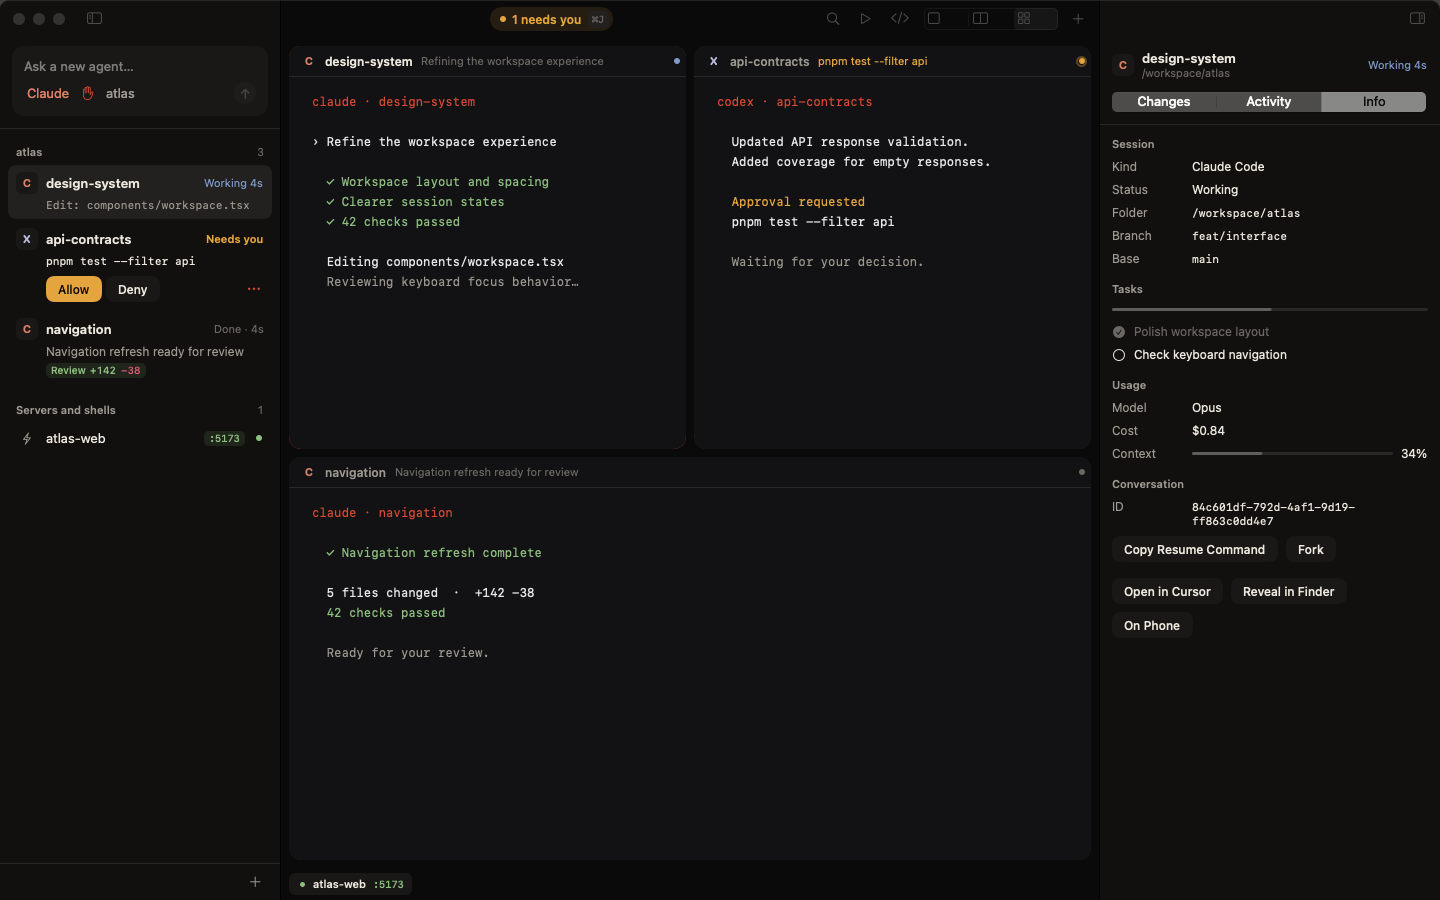
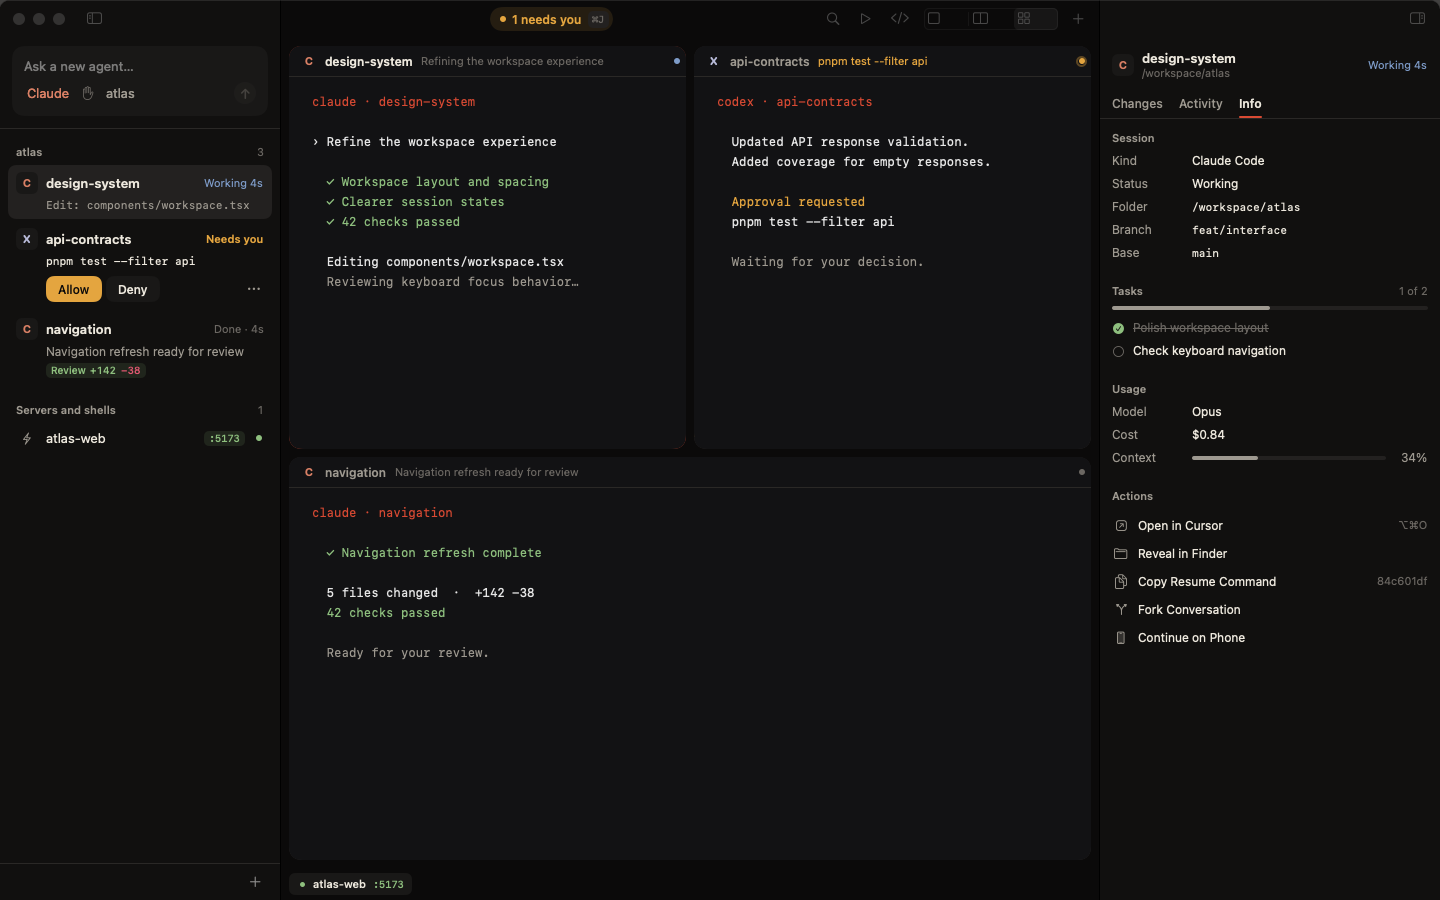
style: ink tabs, a cleaner inspector, and quieter sidebar controls
AppKit's gray segmented control is gone: SegmentedTabs draws tabs in the app's own ink, with
a vermilion underline for the inspector and a pill track for Settings and Quick Ask. The
inspector's Info tab gets thin meters, task progress ("1 of 2"), usage for Codex too, and
one action list in place of five wrapping buttons. Sidebar menus no longer inherit the
accent, so the permission icon and row menu stop looking like errors.

diff --git a/Sources/Hyperterm/UI/InspectorView.swift b/Sources/Hyperterm/UI/InspectorView.swift
@@ -44,13 +44,13 @@ private struct InspectorContent: View {
         VStack(spacing: 0) {
             header
             if tabs.count > 1 {
-                Picker("Inspector", selection: Binding(get: { tab }, set: { store.inspectorTab = $0 })) {
-                    ForEach(tabs) { Text($0.rawValue).tag($0) }
+                HStack {
+                    SegmentedTabs(options: tabs.map { ($0, $0.rawValue) },
+                                  selection: Binding(get: { tab }, set: { store.inspectorTab = $0 }),
+                                  style: .underline)
+                    Spacer(minLength: 0)
                 }
-                .pickerStyle(.segmented)
-                .labelsHidden()
                 .padding(.horizontal, Space.m)
-                .padding(.bottom, Space.m)
             }
             Hairline()
             switch tab {
@@ -79,7 +79,7 @@ private struct InspectorContent: View {
         }
         .padding(.horizontal, Space.m)
         .padding(.top, Space.m)
-        .padding(.bottom, Space.m)
+        .padding(.bottom, Space.s)
     }
 }
 
@@ -967,7 +967,7 @@ private struct InfoView: View {
 
     var body: some View {
         ScrollView {
-            VStack(alignment: .leading, spacing: Space.l) {
+            VStack(alignment: .leading, spacing: Space.xl) {
                 section(session.kind == .browser ? "Browser" : "Session") {
                     row("Kind", session.kind.displayName)
                     row("Status", session.statusWord + (session.state.detail.map { " · " + $0 } ?? ""))
@@ -988,65 +988,72 @@ private struct InfoView: View {
                 }
                 let tasks = session.tasks
                 if tasks.total > 0 {
-                    section("Tasks") {
-                        ProgressView(value: Double(tasks.done), total: Double(tasks.total)).controlSize(.small)
+                    section("Tasks", trailing: "\(tasks.done) of \(tasks.total)") {
+                        Meter(fraction: Double(tasks.done) / Double(tasks.total))
+                            .padding(.bottom, Space.xxs)
                         ForEach(tasks.order, id: \.self) { id in
-                            Label(tasks.subjects[id] ?? "Task", systemImage: tasks.completed.contains(id) ? "checkmark.circle.fill" : "circle")
-                                .font(Typeface.callout)
-                                .foregroundStyle(tasks.completed.contains(id) ? Tone.faint : Tone.text)
+                            let done = tasks.completed.contains(id)
+                            HStack(alignment: .firstTextBaseline, spacing: Space.s) {
+                                Image(systemName: done ? "checkmark.circle.fill" : "circle")
+                                    .font(Typeface.caption)
+                                    .foregroundStyle(done ? Palette.running : Tone.faint)
+                                Text(tasks.subjects[id] ?? "Task")
+                                    .foregroundStyle(done ? Tone.faint : Tone.text)
+                                    .strikethrough(done, color: Tone.faint)
+                            }
                         }
                     }
                 }
-                if session.kind == .claude {
+                if session.kind.isAgent {
                     section("Usage") {
-                        row("Model", session.usage.model ?? "—")
-                        row("Cost", session.usage.costUSD.map { String(format: "$%.2f", $0) } ?? "—")
+                        if let model = session.usage.model { row("Model", model) }
+                        if let cost = session.usage.costUSD { row("Cost", String(format: "$%.2f", cost)) }
                         if let context = session.usage.contextPercent {
                             HStack(spacing: Space.s) {
                                 Text("Context").foregroundStyle(Tone.muted).frame(width: 72, alignment: .leading)
-                                ProgressView(value: min(max(context, 0), 100), total: 100)
-                                    .controlSize(.small)
-                                    .tint(context >= 90 ? Palette.attention : Palette.accent)
+                                Meter(fraction: context / 100, warning: 0.9)
                                 Text("\(Int(context))%").monospacedDigit()
-                                    .foregroundStyle(context >= 90 ? Palette.attention : Tone.text)
+                                    .foregroundStyle(context >= 90 ? Palette.attention : Tone.muted)
+                                    .frame(width: 34, alignment: .trailing)
                             }
                         }
-                        if let evidence = session.testEvidence {
-                            row("Tests", evidence.summary)
+                        if let limits = session.usage.limits { row("Limits", limitsText(limits)) }
+                        if let evidence = session.testEvidence { row("Tests", evidence.summary) }
+                        if session.usage == UsageSnapshot(), session.testEvidence == nil {
+                            Text("Shows after the first turn.").foregroundStyle(Tone.faint)
                         }
                     }
                 }
-                if let id = session.spec.agentSessionId {
-                    section("Conversation") {
-                        row("ID", id, mono: true)
-                        FlowLayout(spacing: Space.s) {
-                            Button(copiedResume ? "Copied" : "Copy Resume Command") {
+                section("Actions") {
+                    VStack(spacing: 0) {
+                        if session.kind != .browser {
+                            ActionRow(symbol: "arrow.up.forward.app", title: "Open in \(Editors.preferred?.name ?? "Editor")", detail: "⌥⌘O") {
+                                Editors.open(session.spec.workPath)
+                            }
+                        }
+                        ActionRow(symbol: "folder", title: "Reveal in Finder") {
+                            NSWorkspace.shared.activateFileViewerSelecting([URL(fileURLWithPath: session.spec.workPath)])
+                        }
+                        if let id = session.spec.agentSessionId {
+                            ActionRow(symbol: copiedResume ? "checkmark" : "doc.on.doc",
+                                      title: copiedResume ? "Copied" : "Copy Resume Command",
+                                      detail: String(id.prefix(8))) {
                                 let command = session.kind == .claude ? "claude --resume \(id)" : "codex resume \(id)"
                                 NSPasteboard.general.clearContents()
                                 NSPasteboard.general.setString(command, forType: .string)
                                 copiedResume = true
                             }
+                            .help(id)
                             if session.kind == .claude {
-                                Button("Fork") { _ = store.fork(session) }
+                                ActionRow(symbol: "arrow.triangle.branch", title: "Fork Conversation") { _ = store.fork(session) }
                                     .help("Start a new agent from this point in the conversation")
+                                ActionRow(symbol: "iphone", title: "Continue on Phone") { session.openRemoteControl() }
+                                    .help("Continue with Claude Remote Control")
                             }
                         }
-                        .buttonStyle(PanelButtonStyle())
                     }
+                    .padding(.horizontal, -Space.s)
                 }
-                FlowLayout(spacing: Space.s) {
-                    if session.kind != .browser {
-                        Button("Open in \(Editors.preferred?.name ?? "Editor")") { Editors.open(session.spec.workPath) }
-                    }
-                    Button("Reveal in Finder") {
-                        NSWorkspace.shared.activateFileViewerSelecting([URL(fileURLWithPath: session.spec.workPath)])
-                    }
-                    if session.kind == .claude {
-                        Button("On Phone") { session.openRemoteControl() }
-                            .help("Continue with Claude Remote Control")
-                    }
-                }
-                .buttonStyle(PanelButtonStyle())
             }
             .padding(Space.m)
             .font(Typeface.callout)
@@ -1059,11 +1066,16 @@ private struct InfoView: View {
         }
     }
 
-    private func section<Content: View>(_ title: String, @ViewBuilder _ content: () -> Content) -> some View {
+    private func section<Content: View>(_ title: String, trailing: String? = nil, @ViewBuilder _ content: () -> Content) -> some View {
         VStack(alignment: .leading, spacing: Space.s) {
-            SectionHeader(title)
+            SectionHeader(title) { if let trailing { Text(trailing) } }
             content()
         }
+    }
+
+    private func limitsText(_ limits: RateLimits) -> String {
+        [limits.fiveHourPercent.map { "5h \(Int($0))%" }, limits.sevenDayPercent.map { "week \(Int($0))%" }]
+            .compactMap { $0 }.joined(separator: " · ")
     }
 
     private func row(_ label: String, _ value: String, mono: Bool = false) -> some View {

diff --git a/Sources/Hyperterm/UI/Design.swift b/Sources/Hyperterm/UI/Design.swift
@@ -188,6 +188,113 @@ extension View {
 
 // MARK: - Components
 
+/// A choice between a few views or values, drawn in the app's own ink instead of AppKit's
+/// gray segmented control. `.underline` for tabs that switch a panel's content (the inspector);
+/// `.pill` for a compact value picker (Settings panes, Quick Ask's agent).
+struct SegmentedTabs<Value: Hashable>: View {
+    enum Style { case underline, pill }
+
+    let options: [(value: Value, title: String)]
+    @Binding var selection: Value
+    var style: Style = .pill
+    @Namespace private var marker
+    @Environment(\.accessibilityReduceMotion) private var reduceMotion
+
+    var body: some View {
+        HStack(spacing: style == .pill ? 0 : Space.l) {
+            ForEach(Array(options.enumerated()), id: \.offset) { _, option in
+                segment(option.value, option.title)
+            }
+        }
+        .padding(style == .pill ? Space.xxs : 0)
+        .background {
+            if style == .pill {
+                RoundedRectangle(cornerRadius: Radius.row, style: .continuous).fill(Tone.surface)
+                    .overlay(RoundedRectangle(cornerRadius: Radius.row, style: .continuous).strokeBorder(Tone.hairline))
+            }
+        }
+        .animation(Motion.animation(reduceMotion), value: selection)
+        .accessibilityElement(children: .contain)
+    }
+
+    private func segment(_ value: Value, _ title: String) -> some View {
+        let selected = value == selection
+        return Button { selection = value } label: {
+            Text(title)
+                .font(Typeface.callout.weight(selected ? .semibold : .medium))
+                .foregroundStyle(selected ? Tone.text : Tone.muted)
+                .lineLimit(1)
+                .padding(.horizontal, style == .pill ? Space.m : 0)
+                .frame(minHeight: style == .pill ? 24 : 30)
+                .frame(maxWidth: style == .pill ? .infinity : nil)
+                .background {
+                    if selected, style == .pill {
+                        RoundedRectangle(cornerRadius: Radius.row - Space.xxs, style: .continuous)
+                            .fill(Tone.raised)
+                            .matchedGeometryEffect(id: "marker", in: marker)
+                    }
+                }
+                .overlay(alignment: .bottom) {
+                    if selected, style == .underline {
+                        Capsule().fill(Palette.accent).frame(height: 2)
+                            .matchedGeometryEffect(id: "marker", in: marker)
+                    }
+                }
+                .contentShape(Rectangle())
+        }
+        .buttonStyle(.plain)
+        .accessibilityAddTraits(selected ? [.isButton, .isSelected] : .isButton)
+    }
+}
+
+/// A thin meter: tasks done, context used. Turns gold past `warning`.
+struct Meter: View {
+    let fraction: Double
+    var warning: Double = 2
+
+    var body: some View {
+        GeometryReader { geometry in
+            Capsule().fill(Tone.raised)
+                .overlay(alignment: .leading) {
+                    Capsule().fill(fraction >= warning ? Palette.attention : Tone.muted)
+                        .frame(width: geometry.size.width * min(max(fraction, 0), 1))
+                }
+        }
+        .frame(height: 4)
+        .accessibilityValue("\(Int(fraction * 100)) percent")
+    }
+}
+
+/// A full-width action in a panel: icon, label, and a hover fill. Quieter than a button row
+/// for lists of secondary actions.
+struct ActionRow: View {
+    let symbol: String
+    let title: String
+    var detail: String? = nil
+    let action: () -> Void
+    @State private var hovering = false
+
+    var body: some View {
+        Button(action: action) {
+            HStack(spacing: Space.s) {
+                Image(systemName: symbol)
+                    .font(Typeface.callout)
+                    .foregroundStyle(Tone.muted)
+                    .frame(width: 18)
+                Text(title).font(Typeface.callout).foregroundStyle(Tone.text)
+                Spacer(minLength: Space.xs)
+                if let detail { Text(detail).font(Typeface.caption).foregroundStyle(Tone.faint) }
+            }
+            .padding(.horizontal, Space.s)
+            .frame(minHeight: 28)
+            .background(hovering ? Tone.raised : .clear, in: RoundedRectangle(cornerRadius: Radius.row, style: .continuous))
+            .contentShape(Rectangle())
+        }
+        .buttonStyle(.plain)
+        .onHover { hovering = $0 }
+    }
+}
+
 /// A key cap: "⌘N".
 struct KeyboardHint: View {
     let keys: String

diff --git a/Sources/Hyperterm/UI/SidebarView.swift b/Sources/Hyperterm/UI/SidebarView.swift
@@ -162,6 +162,7 @@ private struct Composer: View {
                 } label: {
                     Text(agentTitle).foregroundStyle(kinds.count == 1 ? kinds[0].tint : Tone.text)
                 }
+                .tint(kinds.count == 1 ? kinds[0].tint : Tone.text)
                 .fixedSize()
                 .help("Which agents take the task. Several agents each get their own worktree.")
                 Menu {
@@ -174,6 +175,7 @@ private struct Composer: View {
                     Image(systemName: mode?.symbol ?? "hand.raised")
                         .foregroundStyle(mode == nil ? Tone.faint : Tone.text)
                 }
+                .tint(mode == nil ? Tone.faint : Tone.text)
                 .fixedSize()
                 .help(mode.map { "\($0.title): \($0.detail)" } ?? "Permissions: as configured in the agent")
                 Menu {
@@ -186,6 +188,7 @@ private struct Composer: View {
                         .lineLimit(1)
                         .truncationMode(.middle)
                 }
+                .tint(Tone.muted)
                 .fixedSize()
                 .help("Project: " + abbreviateHome(targetFolder))
                 Spacer(minLength: 0)
@@ -445,6 +448,7 @@ private struct ApprovalStrip: View {
                 } label: {
                     Image(systemName: "ellipsis").font(Typeface.caption.weight(.semibold)).foregroundStyle(Tone.muted)
                 }
+                .tint(Tone.muted)
                 .menuStyle(.borderlessButton)
                 .menuIndicator(.hidden)
                 .fixedSize()

diff --git a/Sources/Hyperterm/UI/QuickAskView.swift b/Sources/Hyperterm/UI/QuickAskView.swift
@@ -35,13 +35,9 @@ struct QuickAskView: View {
                     .acceptsAttachments($text)
             }
             HStack(spacing: Space.s) {
-                Picker("Agent", selection: $kindName) {
-                    Text("Claude Code").tag(SessionKind.claude.rawValue)
-                    Text("Codex").tag(SessionKind.codex.rawValue)
-                }
-                .pickerStyle(.segmented)
-                .labelsHidden()
-                .fixedSize()
+                SegmentedTabs(options: [(SessionKind.claude.rawValue, "Claude Code"), (SessionKind.codex.rawValue, "Codex")],
+                              selection: $kindName)
+                    .fixedSize()
                 Menu {
                     // Recent folders only: an open panel would take focus and close Quick Ask.
                     if folders.isEmpty { Text("Start an agent in Kuronami first") }
@@ -50,6 +46,7 @@ struct QuickAskView: View {
                     Label(URL(fileURLWithPath: expandTilde(folder)).lastPathComponent, systemImage: "folder")
                 }
                 .menuStyle(.borderlessButton)
+                .tint(Tone.muted)
                 .fixedSize()
                 .help(abbreviateHome(folder))
                 Spacer()

diff --git a/Sources/Hyperterm/UI/SettingsView.swift b/Sources/Hyperterm/UI/SettingsView.swift
@@ -46,12 +46,8 @@ struct SettingsView: View {
 
     var body: some View {
         VStack(spacing: 0) {
-            Picker("Settings", selection: $pane) {
-                ForEach(Pane.allCases) { Label($0.rawValue, systemImage: $0.symbol).tag($0) }
-            }
-            .pickerStyle(.segmented)
-            .labelsHidden()
-            .fixedSize()
+            SegmentedTabs(options: Pane.allCases.map { ($0, $0.rawValue) }, selection: $pane)
+                .frame(width: 360)
             .padding(.vertical, Space.m)
             Hairline()
             switch pane {
